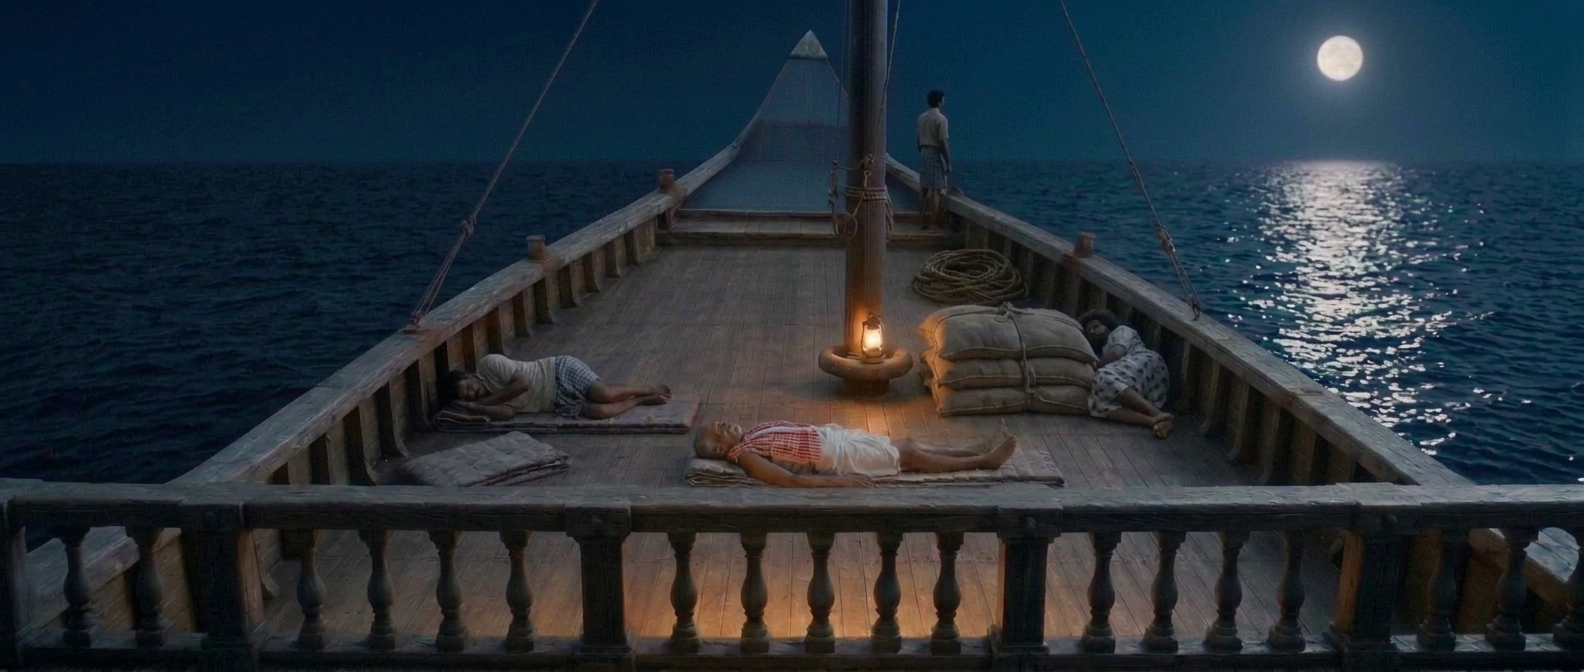
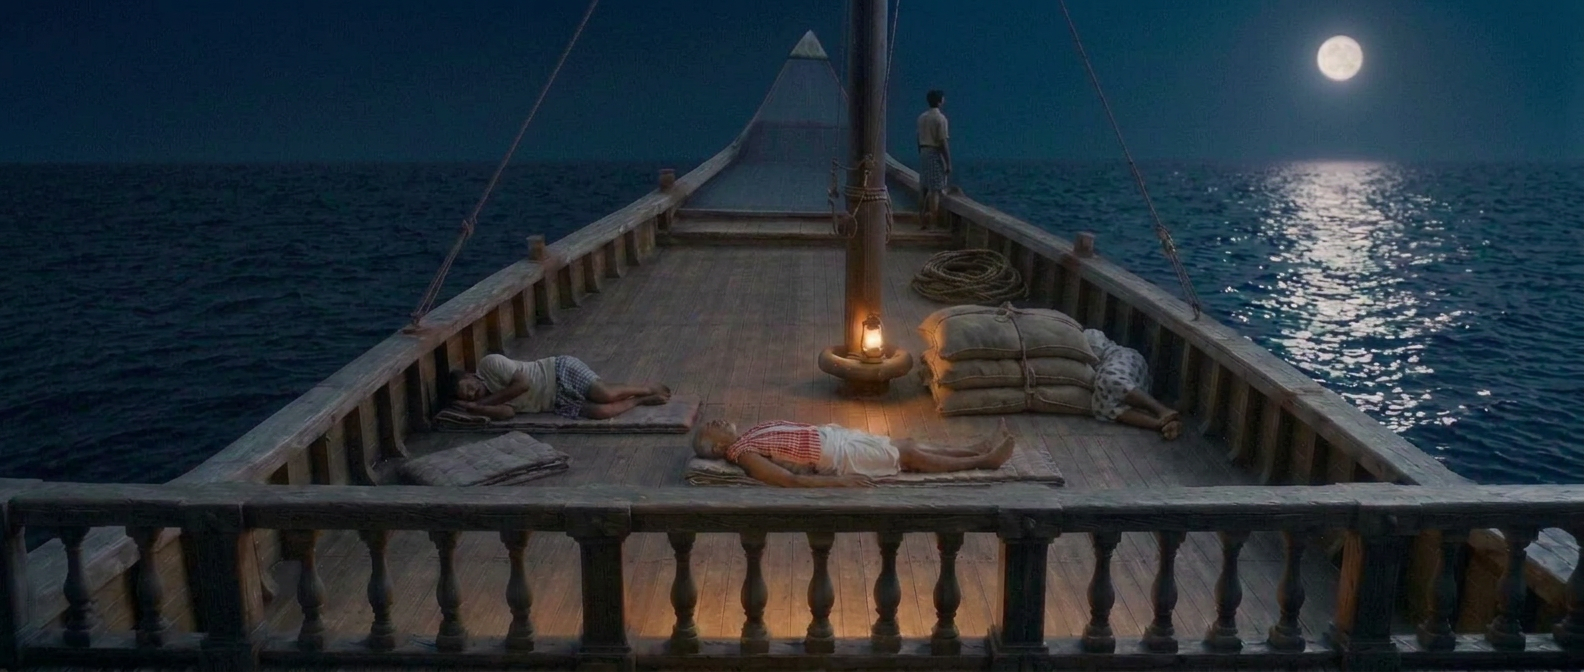
Ranjith: asset: s21-sh04 K2 with Sasi behind the sacks as in K5–K7

Changed region(s): [[0.7734, 0.25, 1.0, 0.7188], [0.6806, 0.4688, 0.7424, 0.6562], [0.464, 0.625, 0.4949, 0.6875]]

diff --git a/scenes/showreel/image-qa/s21-sh04-keyframes-qc.md b/scenes/showreel/image-qa/s21-sh04-keyframes-qc.md
@@ -5,7 +5,7 @@ Ranjith asked on 2026-11-12 for one plate per beat, each QC'd and logic-tested b
 | Key | Time | Shot beat | Logic and cross-plate findings | Fixes made | Score |
 |---|---|---|---|---|---|
 | K1 | 0 s | far behind the stern | one mast; moon ahead-right; wake | (earlier: second mast removed) | 88 |
-| K2 | 9 s | high view, end of the glide | made from the master layout grey-box guide (L148): one sack stack just forward of the mast; Sasi asleep beside it on its bow/starboard side; about four metres of open deck; Antony near the stem; Raghavan's towel at the neck | an extra crouching man removed (head count) | 87 |
+| K2 | 9 s | high view, end of the glide | master layout guide (L148). Sasi as in K5–K7: curled against the far (bow) face of the sacks, head toward the middle, legs toward the right rail; from this high camera only his legs and mundu show past the right end of the stack | an extra crouching man removed; Sasi moved from beside the sacks to behind them (Ranjith: K2 and K5 disagreed) | 87 |
 | K3 | 10 s | bow, calm | from the master layout guide: mast and lantern close at the left, sacks close at the right, Sasi hidden behind them, open deck, Antony near the stem | an extra post beside the mast removed | 88 |
 | K4 | 14 s | Antony sees the fire | over-the-shoulder from behind his right shoulder, looking where he looks: his face toward the fire on the left horizon, eyes wide, mouth open; the blue bow bulwark; moon behind the camera | four earlier tries had him looking right, toward the moon, or standing on Sasi's place; the angle was changed so his gaze can only point at the fire. Drift: the fire reads a little nearer than 500 m | 86 |
 | K5 | 16 s | aft view, Antony runs in | towel at the neck; lantern at the mast foot; Antony from the camera side; no glow on the horizon (the fire is behind this camera) | glow removed, faint warm light from the right instead | 88 |
